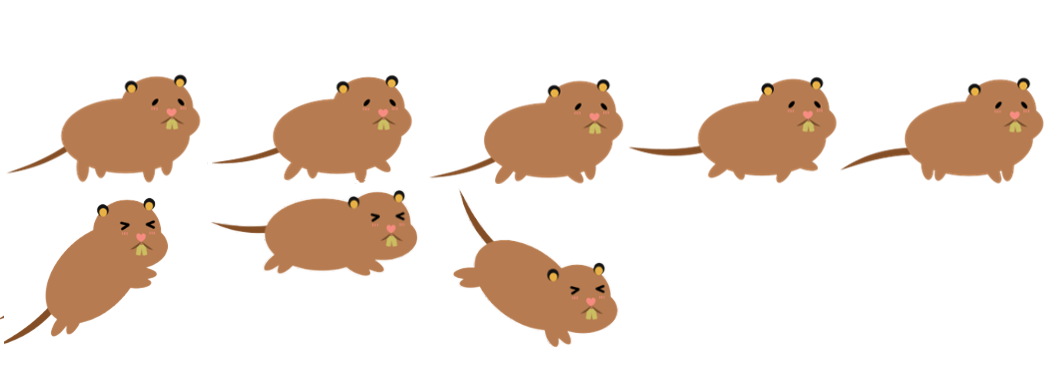
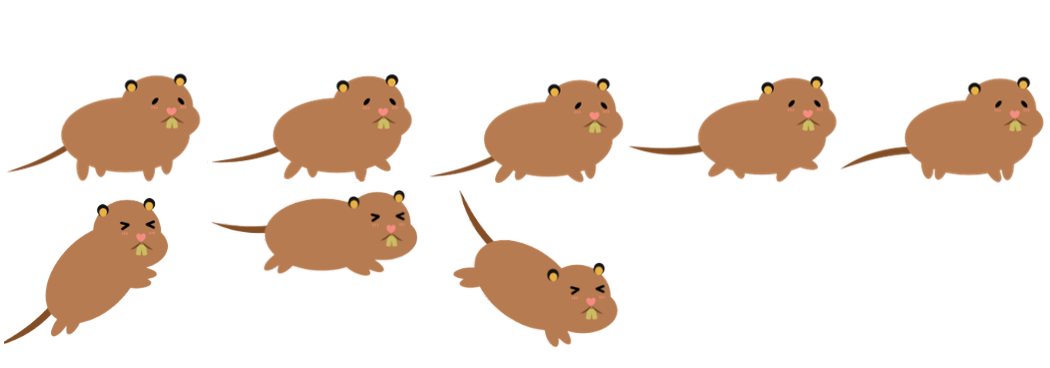
add catch animations

diff --git a/js/main.js b/js/main.js
@@ -73,7 +73,7 @@ var mainpage ={
 	game.load.image('wall','assets/img/wall.png');
 	game.load.spritesheet('mood','assets/img/mood.png', 120, 121);
 	game.load.spritesheet('weather','assets/img/weather.png', 177, 177);
-	game.load.spritesheet('rat_player','assets/img/rat2.png', 210, 114);
+	game.load.spritesheet('rat_player','assets/img/rat5.png', 210, 114);
 	},
   create:()=>{	
     //物理引擎
@@ -96,11 +96,13 @@ var mainpage ={
 	layer = map.createLayer('layer1');
 	map.setCollision(1,true,layer);
 	
-	rat_player = game.add.sprite(100,450, 'rat_player');
+	rat_player = game.add.sprite(150,500, 'rat_player');
 	game.physics.enable(rat_player,Phaser.Physics.ARCADE);
 	rat_player.facing = 'right';
 	rat_player.animations.add('left', [6,7,8,9], 7, true);
     rat_player.animations.add('right', [1,2,3,4], 7, true);
+	rat_player.animations.add('catch', [10,11],10, true);
+	rat_player.anchor.setTo(0.5,0.5);
 	rat_player.body.collideWorldBounds = true;
 	rat_player.inputEnabled = true;
 	rat_player.input.enableDrag(true);
@@ -108,17 +110,17 @@ var mainpage ={
 	rat_player.input.boundsRect = bounds;
 	//參數設定
 	//按鈕設定
-	this.button_end = game.add.button(345, 645, 'endb');
+	this.button_end = game.add.button(345, 640, 'endb');
 	this.button_end.scale.set(0.9);
     this.button_end.onInputDown.add( dowm,{key:"end"},this);
     this.button_end.onInputUp.add(up, { key: "end" }, this);  
 	
-	this.button_set = game.add.button(10, 645, 'setb');
+	this.button_set = game.add.button(10, 640, 'setb');
 	this.button_set.scale.set(0.9);
     this.button_set.onInputDown.add( dowm,{key:"set"},this);
     this.button_set.onInputUp.add(up, { key: "set" }, this);  
 	
-	this.button_ach = game.add.button(80, 645, 'achb');
+	this.button_ach = game.add.button(80, 640, 'achb');
 	this.button_ach.scale.set(0.9);
     this.button_ach.onInputDown.add( dowm,{key:"achieve"},this);
     this.button_ach.onInputUp.add(up, { key: "achieve" }, this); 
@@ -166,14 +168,13 @@ var mainpage ={
 	//game.physics.arcade.collide(rat_player, layer);
 	if(game.physics.arcade.collide(rat_player, layer)&& rat_player.body.onWall())
 		collide_num = 1;
+	rat_player.angle = 0;
 	if(rat_player.input.isDragged)
 	{
 		rat_player.body.velocity.x = 0;
 		rat_player.body.velocity.y = 0;
-		if (rat_player.facing === 'left') 
-			rat_player.frame = 5;
-        if (rat_player.facing === 'right') 
-			rat_player.frame = 0;
+		rat_player.angle = 90;
+		rat_player.play('catch');
 	}
 	else if(move_num < 6)
 	{
@@ -250,6 +251,7 @@ var mainpage ={
 	render:()=>{
 		//game.debug.text("Time until event: " + game.time.events.duration.toFixed(0), 32, 32);
 		//game.debug.spriteInfo(rat_player,32,32);
+		//game.debug.spriteBounds(rat_player);
 	},
 };
 
